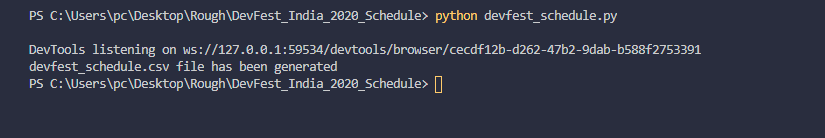
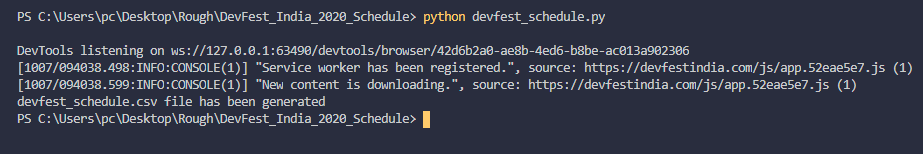
DevFest India 2020 Schedule - Updated Changes

Changed region(s): [[0.0, 0.2899, 1.0, 0.8406], [0.0, 0.058, 0.7576, 0.1739]]

diff --git a/Scripts/Web_Scrappers/DevFest_India_2020_Schedule/devfest_schedule.py b/Scripts/Web_Scrappers/DevFest_India_2020_Schedule/devfest_schedule.py
@@ -6,9 +6,13 @@ from bs4 import BeautifulSoup
 def devfest_schedule():
     url = "https://devfestindia.com/schedule"
 
+    # Running the driver in headless mode
+    options = webdriver.ChromeOptions()
+    options.add_argument("headless")
+
     # Change the driver_path to where your chrome driver is installed
     driver_path = '/Users/pc/Desktop/Rough/DevFest_India_2020_Schedule/chromedriver/chromedriver.exe'
-    driver = webdriver.Chrome(executable_path = driver_path)
+    driver = webdriver.Chrome(executable_path = driver_path, options=options)
 
     # Requesting the desired webpage through selenium Chrome driver
     driver.get(url)
